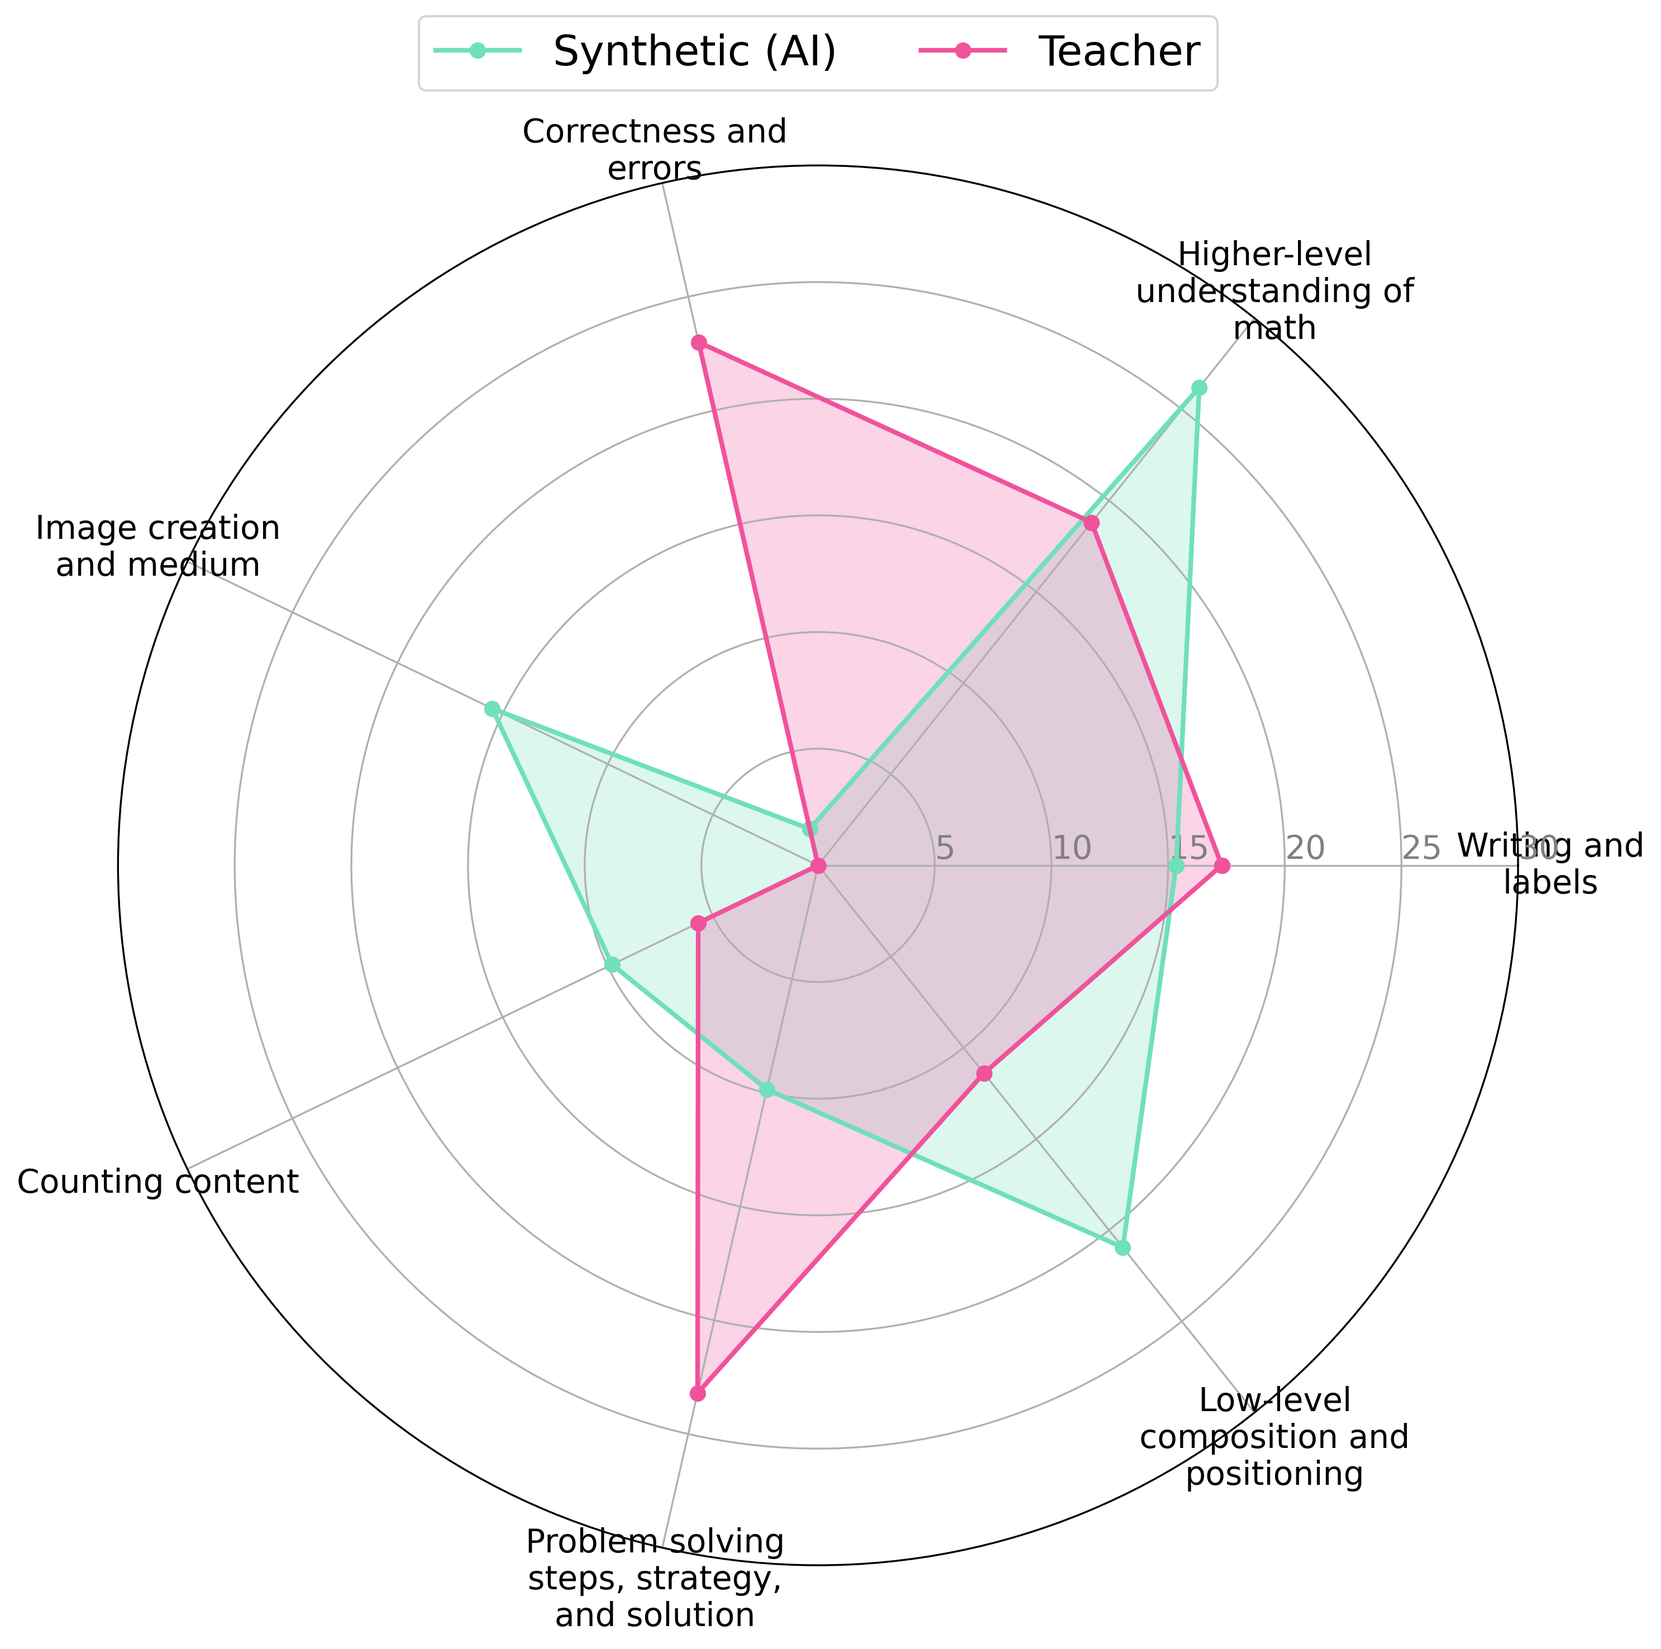
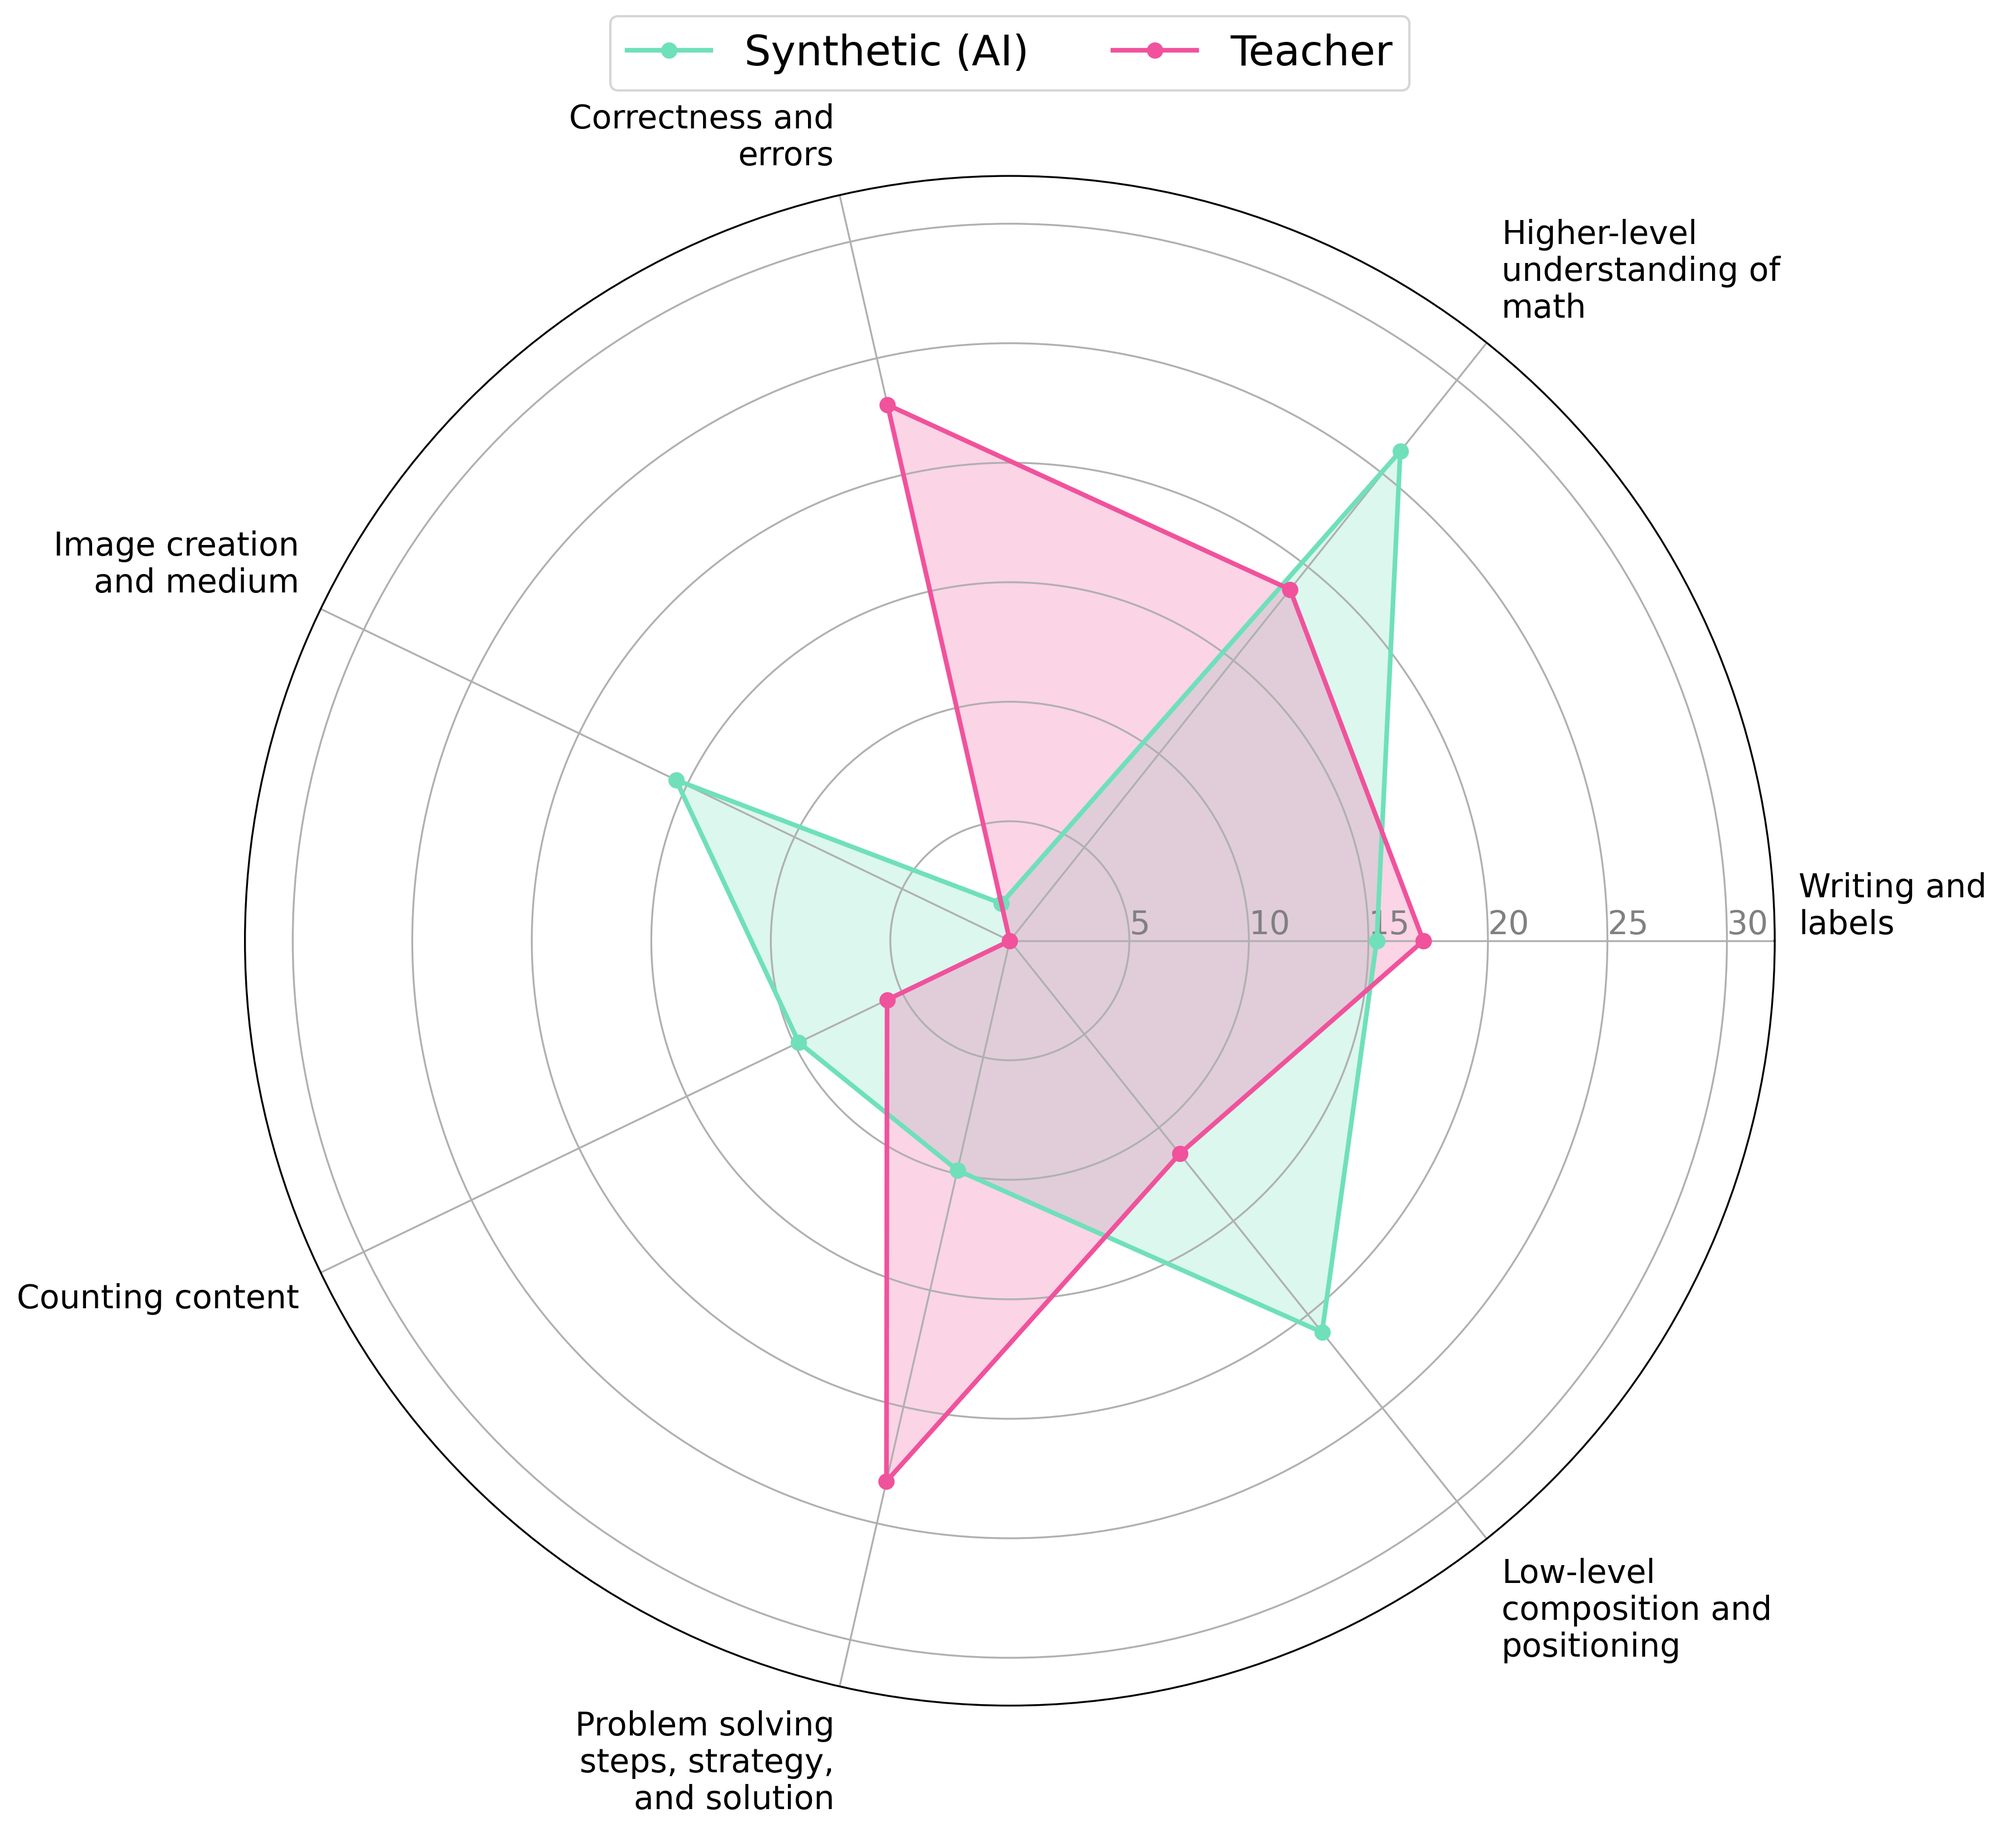
adjust radar plot figure labels

diff --git a/plots/radar_question_types.py b/plots/radar_question_types.py
@@ -22,7 +22,7 @@ def create_comparison_radar_plot(categories, synthetic_values, teacher_values):
     angles += angles[:1]  # Complete the circle
 
     # Initialize the spider plot
-    fig, ax = plt.subplots(figsize=(10, 10), subplot_kw=dict(projection="polar"))
+    fig, ax = plt.subplots(figsize=(12, 12), subplot_kw=dict(projection="polar"))
 
     # Plot data
     synthetic_values_plot = np.concatenate((synthetic_values, [synthetic_values[0]]))
@@ -53,9 +53,33 @@ def create_comparison_radar_plot(categories, synthetic_values, teacher_values):
     )
     ax.fill(angles, teacher_values_plot, alpha=0.25, color=teacher_color)
 
-    # Draw axis lines for each angle and add labels
+    # Draw axis lines for each angle
     ax.set_xticks(angles[:-1])
-    ax.set_xticklabels(categories, size=14)  # Set category label size
+
+    # Remove default labels
+    ax.set_xticklabels([])
+
+    # Add custom labels outside the plot
+    for idx, (angle, label) in enumerate(zip(angles[:-1], categories)):
+        # Convert angle to degrees for text rotation
+        angle_deg = np.degrees(angle)
+
+        # Adjust label alignment and position based on angle
+        if angle_deg <= 90:
+            ha = "left"
+            va = "bottom"
+        elif angle_deg <= 180:
+            ha = "right"
+            va = "bottom"
+        elif angle_deg <= 270:
+            ha = "right"
+            va = "top"
+        else:
+            ha = "left"
+            va = "top"
+
+        # Position text at 33 (adjust this value to move labels further out or closer)
+        ax.text(angle, 33, label, ha=ha, va=va, size=14)
 
     # Add gridlines with custom size
     ax.set_rlabel_position(0)
@@ -64,8 +88,8 @@ def create_comparison_radar_plot(categories, synthetic_values, teacher_values):
         ["5", "10", "15", "20", "25", "30"],
         color="grey",
         size=14,
-    )  # Set grid label size
-    plt.ylim(0, 30)
+    )
+    plt.ylim(0, 32)  # Increased ylim to accommodate labels
 
     # Add legend with custom size
     plt.legend(bbox_to_anchor=(0.5, 1.08), loc="center", ncol=4, fontsize=18)
